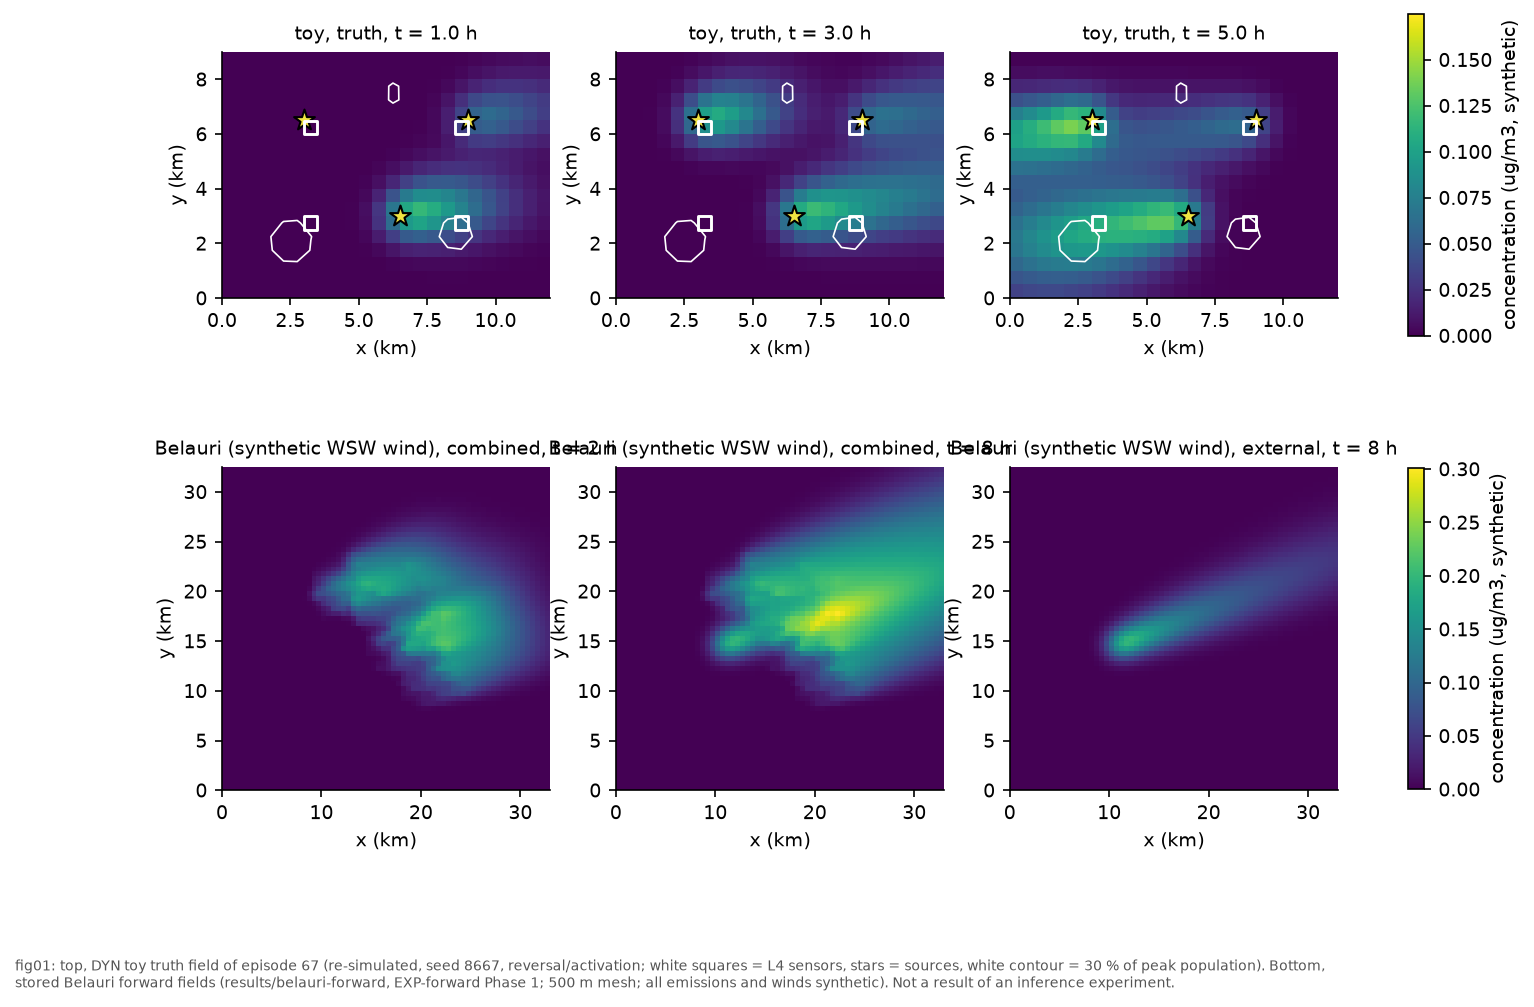
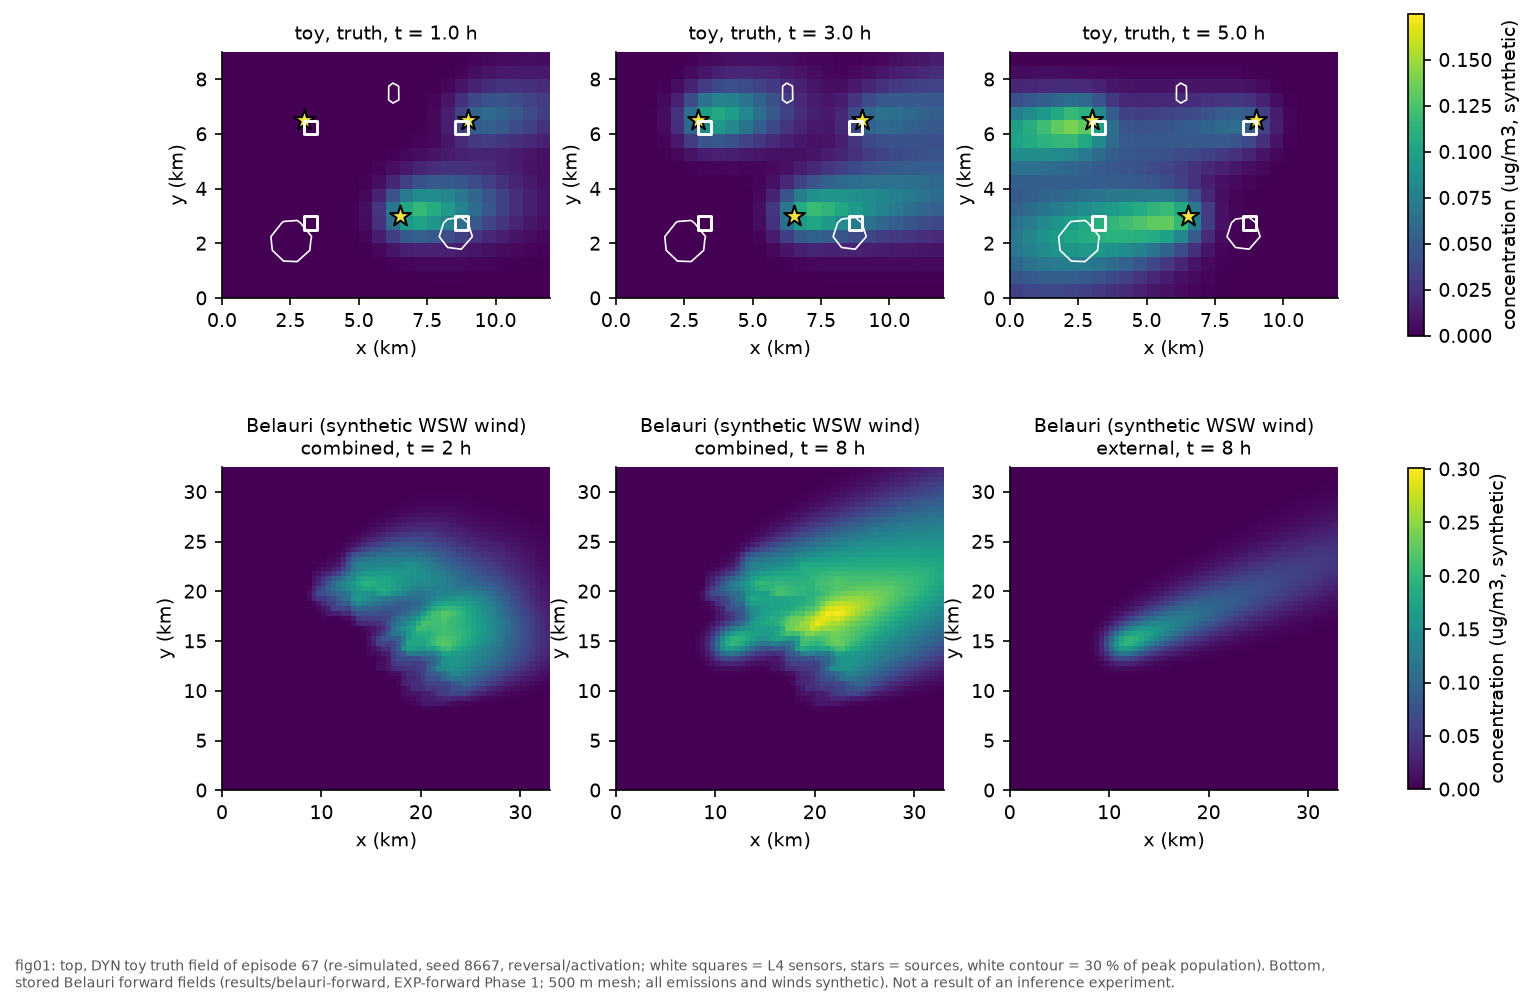
Regenerated final figures with corrected captions/legends (current finding ids)
Claude-Session: https://claude.ai/code/session_01WjSDUdFpvM3fufELKKP8va

Changed region(s): [[0.0919, 0.4002, 0.9192, 0.4618]]

diff --git a/scripts/make_final_figures.py b/scripts/make_final_figures.py
@@ -133,7 +133,7 @@ def fig01(E) -> None:
         for ax, (k, var) in zip(axes[1], ((8, "combined"), (32, "combined"), (32, "external"))):
             im2 = ax.imshow(d[var].isel(time=k).values, origin="lower", cmap="viridis", vmin=0, vmax=vm,
                             extent=(0, float(d.x[-1]) / 1000 + .25, 0, float(d.y[-1]) / 1000 + .25))
-            ax.set_title(f"Belauri (synthetic WSW wind), {var}, t = {float(d.time[k]) / 3600:.0f} h", fontsize=9)
+            ax.set_title(f"Belauri (synthetic WSW wind)\n{var}, t = {float(d.time[k]) / 3600:.0f} h", fontsize=9)
             ax.set_xlabel("x (km)")
             ax.set_ylabel("y (km)")
             ax.grid(False)
@@ -184,7 +184,7 @@ def fig03(E) -> None:
     ax.step(tfine, np.r_[hist[p], hist[p, -1]] / REF[p], where="post", color=OI["black"], lw=1.2, ls=":", label="truth, 12 fine bins")
     tb = np.arange(binned.shape[1] + 1)
     ax.step(tb, np.r_[binned[p], binned[p, -1]] / REF[p], where="post", color=OI["black"], lw=2.2, label="truth, 6-bin average (inverse basis)")
-    sty = {"CT": (OI["orange"], "--", "CT: current-time-only"), "CAUSAL": (OI["blue"], "-", "CAUSAL filter (bin-b estimate)"),
+    sty = {"CT": (OI["orange"], "--", "CT: causal running static fit (F-065)"), "CAUSAL": (OI["blue"], "-", "CAUSAL filter (bin-b estimate)"),
            "RETRO": (OI["green"], "-.", "RETRO smoother (uses future data)")}
     for m, (c, ls, lab) in sty.items():
         th = est[m]
@@ -193,7 +193,8 @@ def fig03(E) -> None:
     ax.set_xlabel("time (h)")
     ax.set_ylabel(f"{names[p]} (units of reference amplitude)")
     ax.set_title(f"episode {E['ep']['id']}: wind {E['ep']['wind']}, family {E['ep']['family']}, L4, 10 % noise", fontsize=9)
-    ax.legend(fontsize=7.5, loc="best")
+    ax.set_ylim(-0.05, 1.95)  # headroom so the legend does not sit on the curves
+    ax.legend(fontsize=7.5, loc="upper left")
     ax = axes[1]
     ms = ["CT", "CAUSAL", "RETRO"]
     resim = [E["jp"].get(m, np.nan) for m in ms]
@@ -205,7 +206,7 @@ def fig03(E) -> None:
     ax.set_ylabel("sqrt(J_pop) (ug/m3)")
     ax.set_title("population-weighted error of this episode", fontsize=9)
     ax.legend(fontsize=7.5)
-    cap = ("fig03: DYN-03 v2 (F-064, RUN-0094, frozen hash 3c86b5e668181a3d). ONE episode (median-gain 'activation' episode at L4/10 % noise, chosen by rule, "
+    cap = ("fig03: DYN-03 v2 (F-065, RUN-0094, frozen hash 3c86b5e668181a3d). ONE episode (median-gain 'activation' episode at L4/10 % noise, chosen by rule, "
            "not by appearance) re-simulated because per-episode histories were not stored; right panel checks the re-simulation against the stored J_pop. "
            "Synthetic, known wind, matched model. Illustration of mechanism, not evidence.")
     save(fig, "fig03_history_reconstruction", cap, ["RUN-0094/episodes.csv", "results/dyn03v2/frozen_hparams.json"])
@@ -240,8 +241,8 @@ def fig04() -> None:
     ax.invert_yaxis()
     ax.axvline(0, color="k", lw=0.8)
     ax.set_xlabel("CAUSAL - CT (1e-3 ug/m3)")
-    ax.set_title("registered 'negative control' FAILS: steady winds gain too\n(grey = steady, red = variable; intervals as stored)", fontsize=9)
-    cap = ("fig04: F-064 / RUN-0094 summary.json ('primary', 'wind_groups'); percentages in the left labels are relative changes. CT is a deliberately naive baseline; "
+    ax.set_title("steady winds gain too: the retired D-014 negative control\nwould fire (retired by D-024 before RUN-0094; not scored)\n(grey = steady, red = variable; intervals as stored)", fontsize=9)
+    cap = ("fig04: F-065 (corrects F-064) / RUN-0094 summary.json ('primary', 'wind_groups'); percentages in the left labels are relative changes. CT is the causal running static fit (a time-invariant model on the same causal data), not a current-time-only estimator (F-065); the D-014 negative control was retired by D-024 before RUN-0094, and the right panel shows only that steady winds also gain (it would fire). "
            "RETRO and M1 use future data (non-causal). Synthetic, known wind, one fixture. Preliminary, not independently reviewed.")
     save(fig, "fig04_dyn03_forest", cap, ["RUN-0094/summary.json"])
 
@@ -460,11 +461,26 @@ def main() -> None:
         except Exception as exc:
             pending(f.__name__, repr(exc))
     # reuse: DYN-00 verification figure from the earlier script (same RUN-0091 data)
-    src = ROOT / "docs/figures/dynamic/fig03_dyn00_verification.png"
-    if src.exists():
-        shutil.copy(src, OUT / "fig00_dyn00_verification.png")
-        INDEX.append({"figure": "fig00_dyn00_verification", "file": "docs/figures/final/fig00_dyn00_verification.png", "status": "reused",
-                      "sources": ["RUN-0091/dyn00_checks.json (via scripts/make_dynamic_figures.py)"]})
+    # fig00: regenerate the DYN-00 verification panel from scripts/make_dynamic_figures.py with the internal label 'fig00'
+    try:
+        import sys
+        import tempfile
+
+        sys.path.insert(0, str(Path(__file__).resolve().parent))
+        import make_dynamic_figures as mdf
+
+        tmp = Path(tempfile.mkdtemp())
+        mdf.OUT, mdf.TAB = tmp, tmp / "tables"
+        _cap = mdf.cap
+        mdf.cap = lambda exp, *a, **k: _cap(exp.replace("fig03 DYN-00", "fig00 DYN-00"), *a, **k)
+        mdf.INDEX.clear()
+        mdf.fig03()
+        shutil.copy(tmp / "fig03_dyn00_verification.png", OUT / "fig00_dyn00_verification.png")
+        e = mdf.INDEX[0]
+        INDEX.append({"figure": "fig00_dyn00_verification", "file": "docs/figures/final/fig00_dyn00_verification.png", "status": "regenerated",
+                      "sources": ["RUN-0091/dyn00_checks.json (via scripts/make_dynamic_figures.py fig03, relabelled fig00)"], "caption": e["caption"]})
+    except Exception as exc:
+        pending("fig00_dyn00_verification", repr(exc))
     for name in ("DYN-08", "EXP-027b", "Q-013"):
         pending(name, "experiment not run / result pending: no figure (placeholder in the report)")
     (OUT / "figure_index.json").write_text(json.dumps(INDEX, indent=1))

diff --git a/scripts/make_wrapup_figures.py b/scripts/make_wrapup_figures.py
@@ -84,11 +84,12 @@ def fig_exp027b():
                  f"Control cells failing the gate: stage 2 = {v2['control_cells_failing']}/{v2['n_cells']}, stage 1 = {v1['control_cells_failing']}/{v1['n_cells']}; "
                  "the control can fail, so the test is not void.", x=0.01, ha="left", fontsize=10)
     fig.text(0.01, 0.005, f"Per-cell verdict label (blue text) = stage-2 rule E_lo > {delta} -> INADEQUATE, E_hi < {delta} -> ADEQUATE, else INCONCLUSIVE (recomputed from the stored intervals; "
-             f"stored counts inadequate/adequate stage 2 = {stored['s2']}, stage 1 = {stored['s1']}).  Hollow = stage 1, filled = stage 2.", fontsize=7.5, color=MUTED)
-    fig.tight_layout(rect=(0, 0.03, 1, 0.94)); fig.savefig(OUT / "wrapup_exp027b_adequacy.png", dpi=160); plt.close(fig)
+             f"stored counts inadequate/adequate stage 2 = {stored['s2']}, stage 1 = {stored['s1']}).  Hollow = stage 1, filled = stage 2.\n"
+             "The INADEQUATE call is borderline and interval-method dependent (F-075; F-077, post-hoc).", fontsize=7.5, color=MUTED)
+    fig.tight_layout(rect=(0, 0.05, 1, 0.94)); fig.savefig(OUT / "wrapup_exp027b_adequacy.png", dpi=160); plt.close(fig)
     rec("wrapup_exp027b_adequacy", ["results/exp027b-hpc/stage1/exp027b/exp027b_cells.csv", "results/exp027b-hpc/stage2/exp027b/exp027b_cells.csv",
         "results/exp027b-hpc/stage1/exp027b/exp027b_verdict.json", "results/exp027b-hpc/stage2/exp027b/exp027b_verdict.json"],
-        "EXP-027b (F-073): E with 95 % intervals for the 500 m main mesh vs the 2 km control in the 4 (budget, noise) cells, stage 1 (hollow) vs stage 2 (filled), "
+        "EXP-027b (F-075; post-hoc sensitivity F-077): E with 95 % intervals for the 500 m main mesh vs the 2 km control in the 4 (budget, noise) cells, stage 1 (hollow) vs stage 2 (filled), "
         "margin 0.05; J-ratio and rho panels. Stage 2 verdict main INADEQUATE with all 4 control cells failing the gate; stage 1 was main INCONCLUSIVE. "
         "Per-cell labels recomputed from the stored intervals. Synthetic scenarios.")
 
@@ -115,7 +116,7 @@ def fig_dyn08_forest(S):
                  "\nGrey: single fixed layouts, episode bootstrap CI (not a statement about the design rule).  Numbers = relative change.", x=0.01, ha="left", fontsize=9)
     fig.tight_layout(rect=(0, 0, 1, 0.9)); fig.savefig(OUT / "wrapup_dyn08v2_forest.png", dpi=160); plt.close(fig)
     rec("wrapup_dyn08v2_forest", ["results/dyn08-v2-hpc/dyn08_all/summary.json"],
-        "DYN-08 v2 (RUN-0101, F-074): dyn_opt minus random (two-level layout x episode bootstrap) and minus spread/highpop/static_opt/src_opt (single layouts, labelled 'this layout only') "
+        "DYN-08 v2 (RUN-0101, F-076): dyn_opt minus random (two-level layout x episode bootstrap) and minus spread/highpop/static_opt/src_opt (single layouts, labelled 'this layout only') "
         "in the 4 (k, noise) cells, with relative change. Synthetic emissions/episodes; real geometry; model-free of empirical validation.")
 
 
@@ -194,13 +195,14 @@ def fig_v1_v2(S1, S2):
             ax.text(x, y, cell(r), fontsize=9, transform=ax.transAxes, va="center", color=INK if r["passed"] else RED, fontweight="normal" if r["passed"] else "bold")
     n1 = sum(r["passed"] for r in S1["controls"]); n2 = sum(r["passed"] for r in S2["controls"])
     ax.text(0, 0.0, f"Relative M2 change (A - B)/B [95 % CI], % ; v1 controls passed {n1}/{len(S1['controls'])} (frozen v1 gate: not passed), v2 controls passed {n2}/{len(S2['controls'])} (gate passed). "
-            "v1 'PASS/FAIL' is the stored per-control verdict (the v1 lowpop check appears to pass on the sign of mean_diff alone: PASS at +2 % [-12, +16], FAIL at -0 % [-13, +12]).\nv1 failed controls: the lowpop layout did not do worse than spread (it did better at k=3, 2 %), and random replicate groups differed at k=5. "
-            "v2 replaced them with new controls (worst-surrogate layout; random groups A/B with a two-level bootstrap).", fontsize=8, color=MUTED, transform=ax.transAxes, va="bottom")
+            "v1 'PASS/FAIL' is the stored per-control verdict; the stored 'must be > 0' flag for the v1 lowpop control passes on the sign of mean_diff alone (PASS at +2 % [-12, +16]), so it is not evidence that lowpop was worse (F-069).\n"
+            "v1 (F-069, stopped at its stop rules): lowpop did not lose to spread in 3 of 4 cells (it did better at k=3, 2 %, -16 %), and random replicate groups differed at k=5 (the control was badly constructed). "
+            "v2 (F-076) replaced them with new controls (worst-surrogate layout; random groups A/B with a two-level bootstrap).", fontsize=8, color=MUTED, transform=ax.transAxes, va="bottom")
     fig.suptitle("DYN-08 control checks: v1 (failed) vs v2 (passed)", x=0.01, ha="left", fontsize=11)
     fig.savefig(OUT / "wrapup_dyn08_v1_v2_controls.png", dpi=160, bbox_inches="tight"); plt.close(fig)
     rec("wrapup_dyn08_v1_v2_controls", ["results/dyn08-hpc/dyn08_all/summary.json", "results/dyn08-v2-hpc/dyn08_all/summary.json"],
-        "DYN-08 v1 vs v2 control outcomes per cell (relative M2 change with 95 % CI and the stored pass/fail). The v1 controls failed (lowpop not worse than spread in 3 of 4 cells; random replicate groups "
-        "differed at k=5), which is why D-029 registered v2 with new controls. Shown unedited.")
+        "DYN-08 v1 vs v2 control outcomes per cell (relative M2 change with 95 % CI and the stored pass/fail). The v1 controls failed (F-069: lowpop did not lose to spread in 3 of 4 cells; the stored 'must be > 0' flag passes on sign alone at +2 % [-12, +16]; random replicate groups "
+        "differed at k=5), which is why D-029 registered v2 with new controls (F-076). Shown unedited.")
 
 
 # ------------------------------------------------------------------------------------------------ (4) Belauri map
